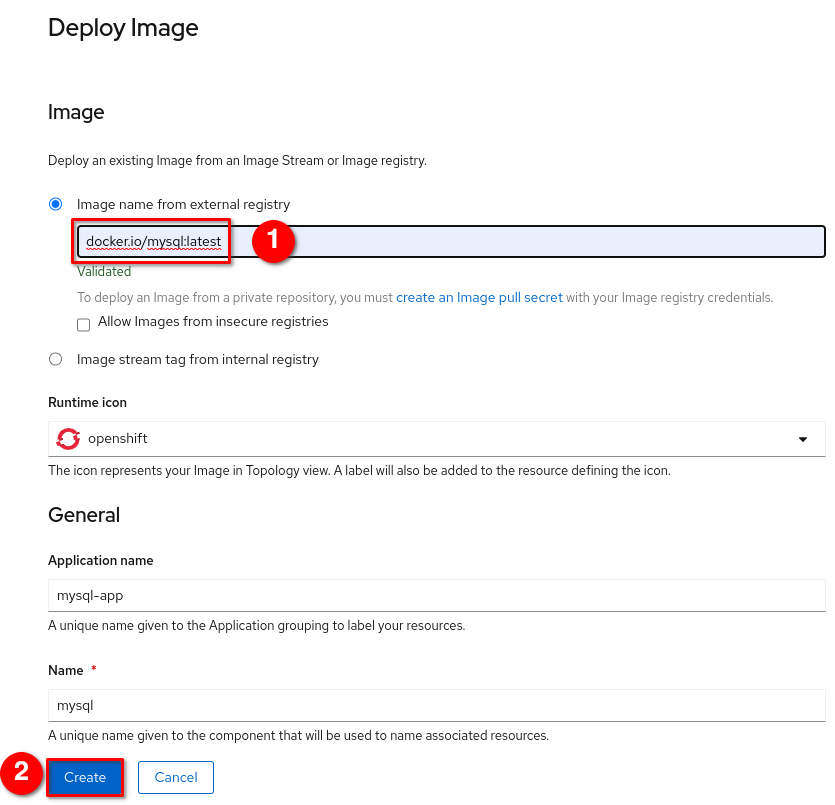
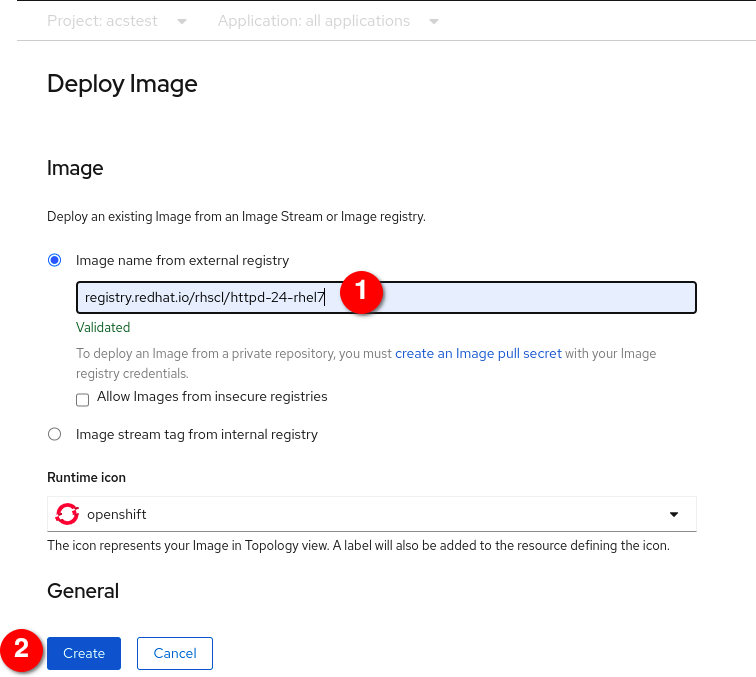
[CI] Publish Documentation for 79ff09d32d2702a591442e91e12f34af16de5949 - 79ff09d32d2702a591442e91e12f34af16de5949 🚀

diff --git a/acs-workshop/10-system_policies.html b/acs-workshop/10-system_policies.html
@@ -611,7 +611,7 @@ We will create an example policy for process.</p>
 </div>
 </li>
 <li>
-<p>We will use <code>Process Activity</code> criteria at the <code>Process Name</code> category as shown below.You can drag and drog and fill-up the box with <code>dd</code></p>
+<p>We will use <code>Process Name</code> criteria at the <code>Process Activity</code> category as shown below.You can drag and drog and fill-up the box with <code>dd</code></p>
 <div class="imageblock">
 <div class="content">
 <img src="_images/policies/15-policies.png" alt="ACS Policies 15" width="800">
@@ -699,7 +699,7 @@ We will create an example policy for process.</p>
 </div>
 </li>
 <li>
-<p><code>Image Name: docker.io/mysql:latest</code>  Click <code>Create</code></p>
+<p><code>Image Name: registry.redhat.io/rhscl/httpd-24-rhel7s</code>  Click <code>Create</code></p>
 <div class="imageblock">
 <div class="content">
 <img src="_images/policies/console5.png" alt="ACS Policies 22" width="800">
